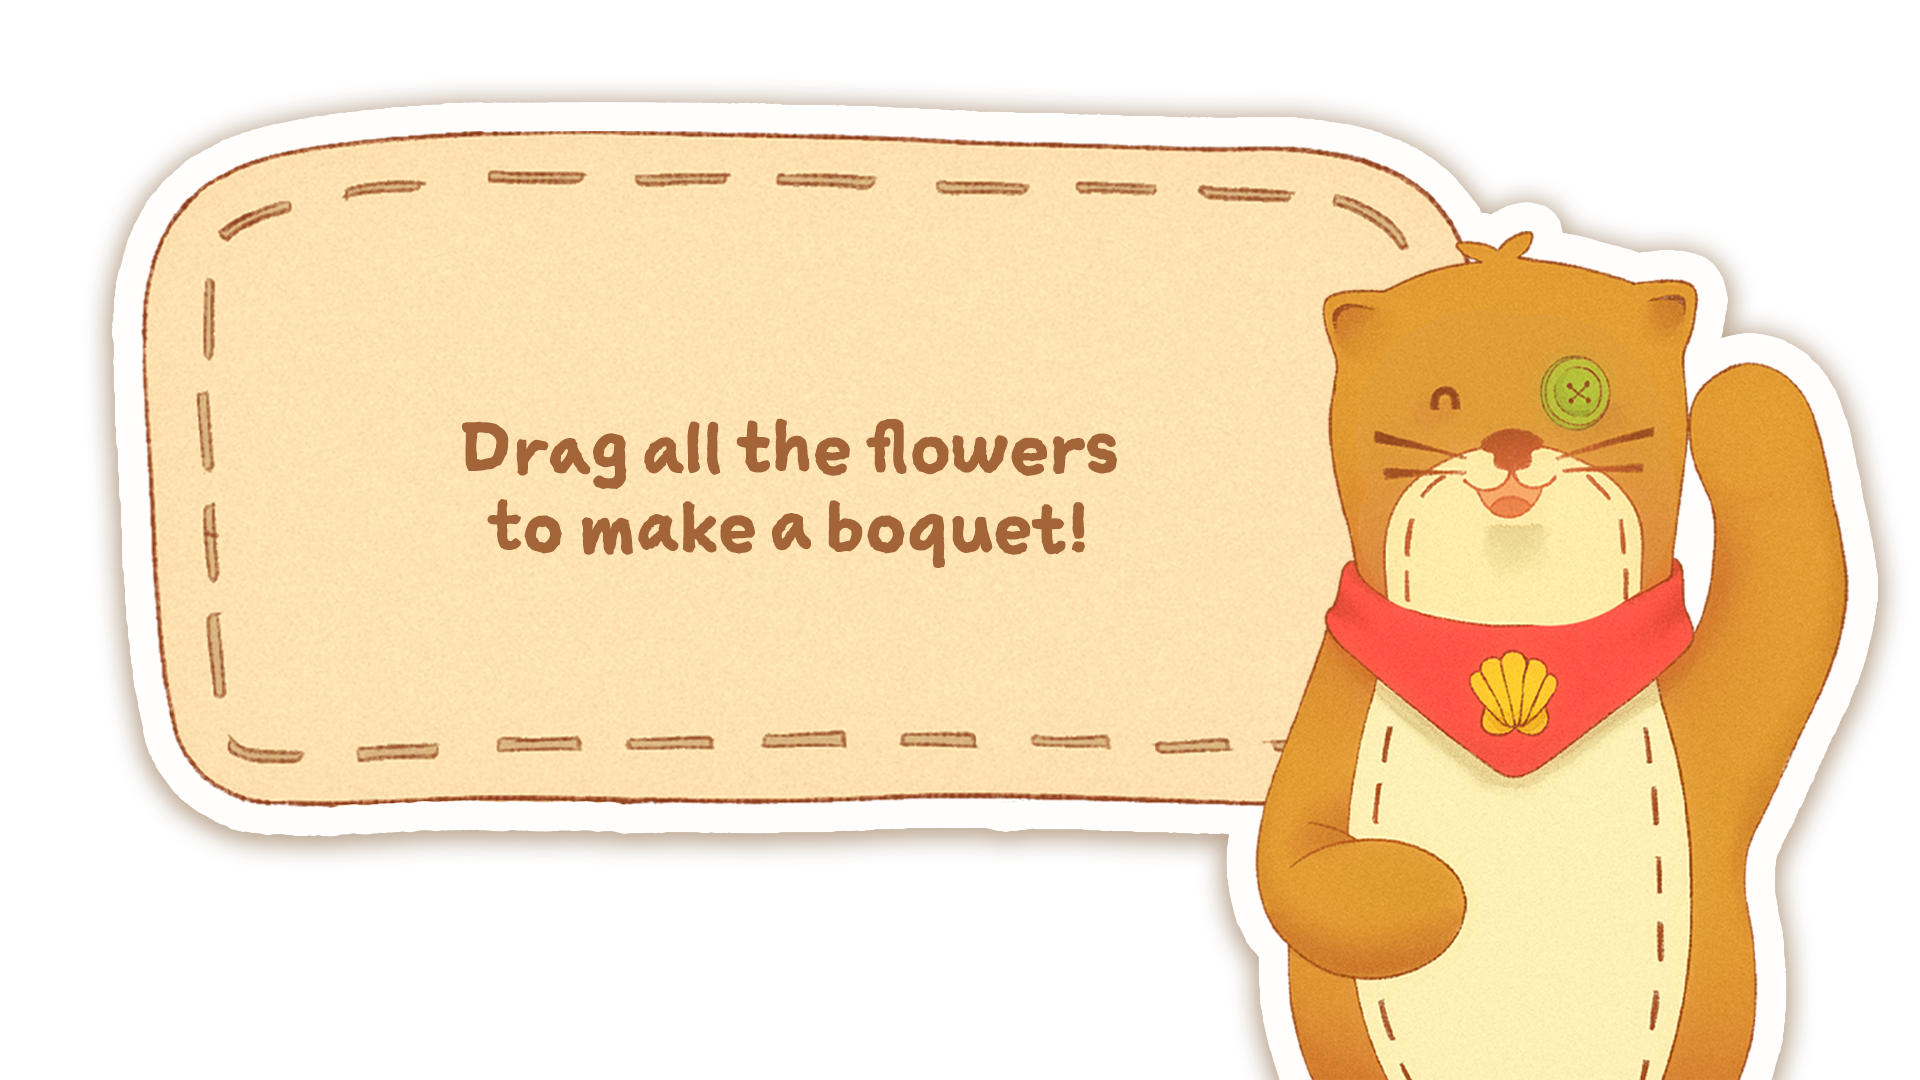
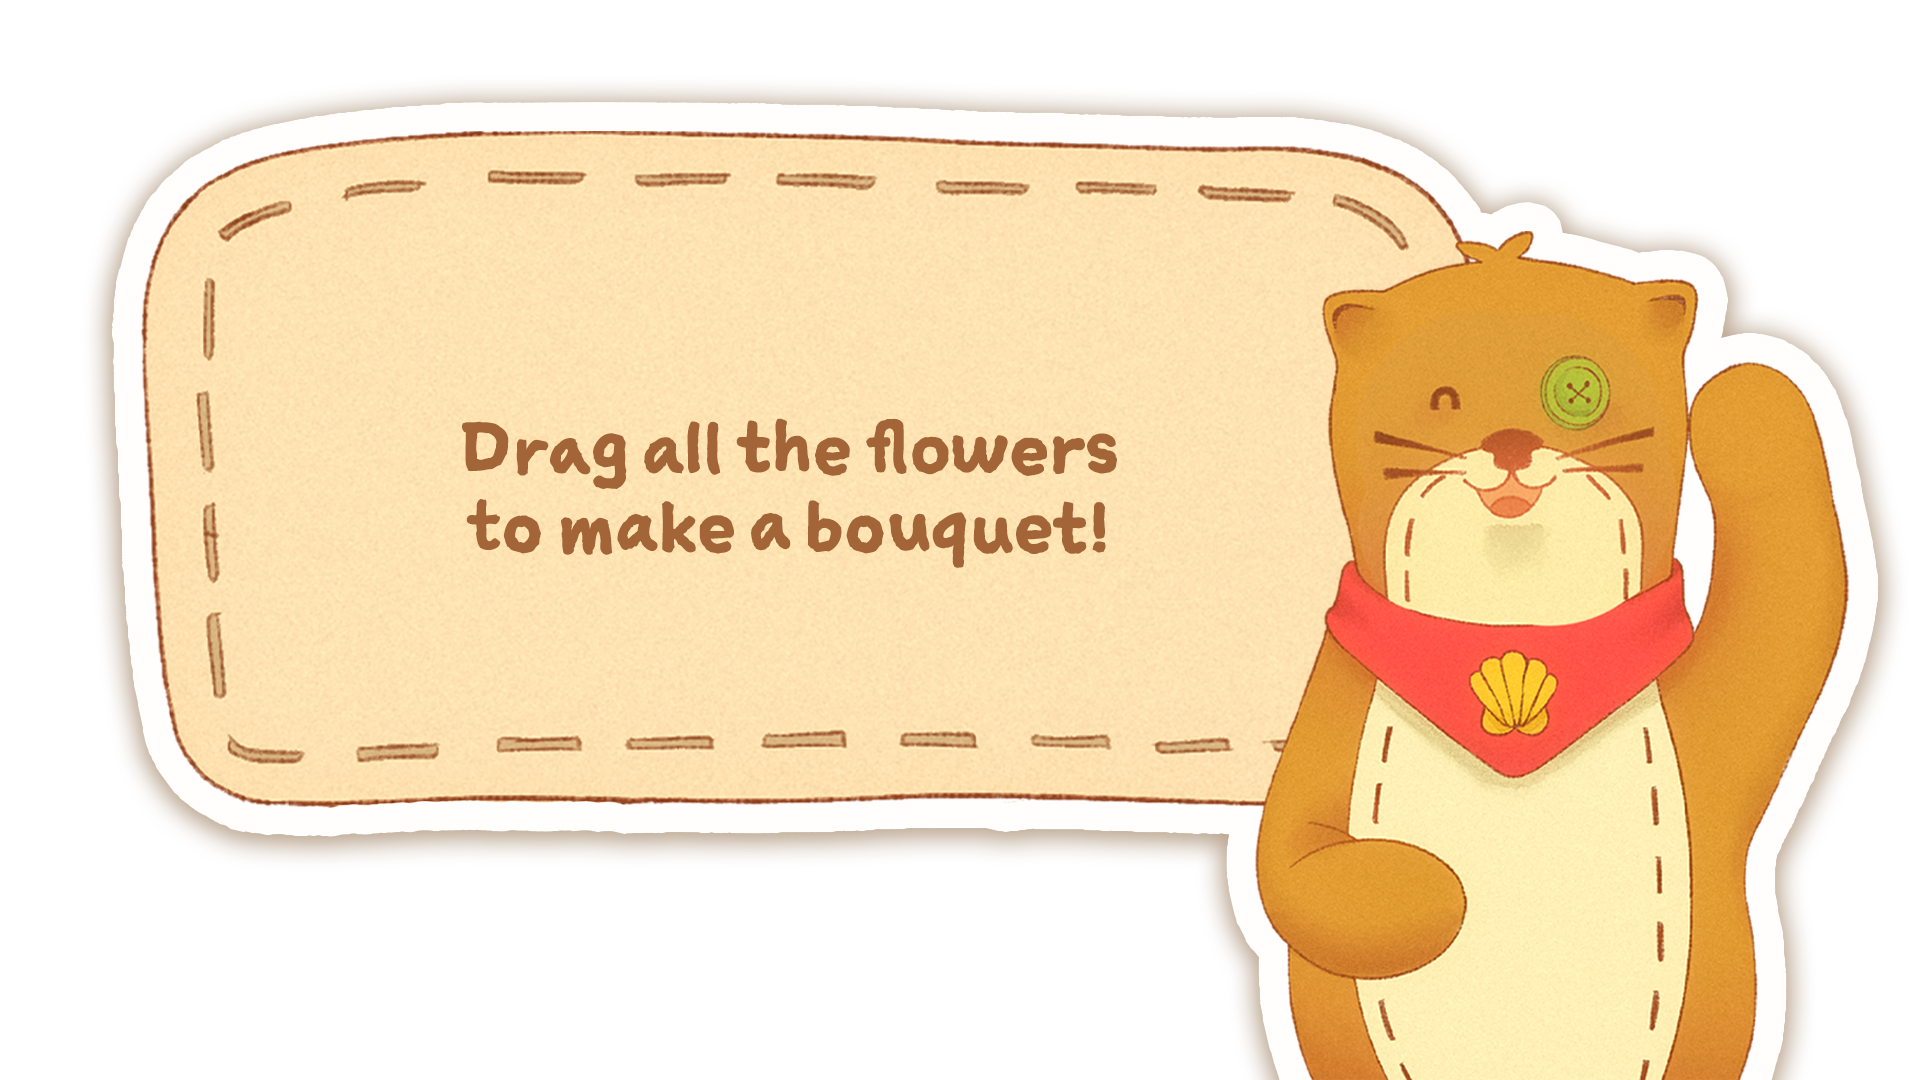
revisions 1.0

Changed region(s): [[0.25, 0.4583, 0.5938, 0.5194]]

diff --git a/src/components/FLOWER/3J/Page_3J.tsx b/src/components/FLOWER/3J/Page_3J.tsx
@@ -5,7 +5,7 @@ const d_option_a_eng = 'assets/FLOWER/3J/d_option_a_eng.png'
 const d_option_b_eng = 'assets/FLOWER/3J/d_option_b_eng.png'
 const d_answer_a_eng = 'assets/FLOWER/3J/d_answer_a_eng.png'
 const d_answer_b_eng = 'assets/FLOWER/3J/d_answer_b_eng.png'
-const d2 = 'assets/FLOWER/3G/d2.png'
+const d2 = 'assets/TD/TD_3.png'
 
 // tagalog
 const d_option_a_tag = 'assets/FLOWER/3J/d_option_a_tag.png'
@@ -103,7 +103,7 @@ const Page_3J = React.forwardRef<
           className="absolute object-contain"
           style={{
             left: 180,
-            bottom: language === 'eng' ? 310 : 290,
+            bottom: language === 'eng' ? 350 : 330,
             width: '40%',
           }}
           src={language === 'eng' ? d_answer_a_eng : d_answer_a_tag}
@@ -114,7 +114,11 @@ const Page_3J = React.forwardRef<
       {selectedChoice === 'B' && (
         <img
           className="absolute object-contain"
-          style={{ left: 190, bottom: 270, width: '38%' }}
+          style={{
+            left: 190,
+            bottom: language === 'eng' ? 320 : 310,
+            width: '38%',
+          }}
           src={language === 'eng' ? d_answer_b_eng : d_answer_b_tag}
           alt="Answer B"
         />

diff --git a/src/components/Book.tsx b/src/components/Book.tsx
@@ -73,14 +73,14 @@ const audioMap: { [key: number]: { loop: string[]; once: string[] } } = {
       'audio/SFX/classroom_ambiance.mp3', // classroom ambience
       'audio/MUSIC/beginning.mp3', // music bed
     ], // Keep ambience
-    once: ['audio/SFX/dream_transition.mp3'], // Dream transition
+    once: [], // Dream transition
   },
   3: {
     loop: [
       'audio/SFX/outdoor_ambiance.wav', // outdoor ambience
       'audio/MUSIC/beginning.mp3', // music bed
     ], // Outside ambience
-    once: [],
+    once: ['audio/SFX/dream_transition.mp3'],
   },
   4: {
     loop: [

diff --git a/src/components/CLOUD/5J/Page_5J.tsx b/src/components/CLOUD/5J/Page_5J.tsx
@@ -20,9 +20,9 @@ const d_answer_b2_tag = 'assets/CLOUD/5J/d_answer_b2_tag.png'
 import { useLanguage } from '@/hooks/LanguageContext'
 
 const dialogueAudio = [
-  'audio/DIALOGUES/FISHER/FISHER 1.mp3',
-  'audio/DIALOGUES/FISHER/FISHER 2.mp3',
-  'audio/DIALOGUES/FISHER/FISHER 3.mp3',
+  'audio/DIALOGUES/PILOT/PILOT 1.mp3',
+  'audio/DIALOGUES/PILOT/PILOT 2.mp3',
+  'audio/DIALOGUES/PILOT/PILOT 3.mp3',
 ]
 
 const Page_5J = React.forwardRef<

diff --git a/src/hooks/LanguageContext.tsx b/src/hooks/LanguageContext.tsx
@@ -16,7 +16,7 @@ const LanguageContext = createContext<LanguageContextProps | undefined>(
 export const LanguageProvider: React.FC<{ children: React.ReactNode }> = ({
   children,
 }) => {
-  const [language, setLanguage] = useState<Language>('eng') // Default is English
+  const [language, setLanguage] = useState<Language>('tag') // Default is English
 
   return (
     <LanguageContext.Provider value={{ language, setLanguage }}>

diff --git a/src/components/CLOUD/5P/Page_5P.tsx b/src/components/CLOUD/5P/Page_5P.tsx
@@ -156,8 +156,8 @@ const Page_5P = React.forwardRef<HTMLDivElement, { onFlipNext: () => void }>(
           <img
             className="z-[1] absolute object-contain p-8"
             style={{
-              top: 36,
-              right: 60,
+              bottom: 280,
+              left: 20,
               width: '30%',
             }}
             src={language === 'eng' ? Page_5P_eng : Page_5P_tag}

diff --git a/src/components/FLOWER/3G/Page_3G.tsx b/src/components/FLOWER/3G/Page_3G.tsx
@@ -19,7 +19,7 @@ import { useLanguage } from '@/hooks/LanguageContext'
 // Dialogue Audio
 const dialogueAudio: { [key: string]: string } = {
   d1: 'audio/DIALOGUES/FLORIST/FLORIST 1.mp3',
-  d2: 'audio/DIALOGUES/FLORIST/FLORIST 2.mp3',
+  d2: 'audio/DIALOGUES/MUNI.mp3',
   d3: 'audio/DIALOGUES/FLORIST/FLORIST 3.mp3',
 }
 

diff --git a/src/components/FISH/4H/Page_4H.tsx b/src/components/FISH/4H/Page_4H.tsx
@@ -18,7 +18,7 @@ import { useLanguage } from '@/hooks/LanguageContext'
 // Dialogue Audio
 const dialogueAudio: { [key: string]: string } = {
   d1: 'audio/DIALOGUES/FISHER/FISHER 1.mp3',
-  d2: 'audio/DIALOGUES/FISHER/FISHER 2.mp3',
+  d2: 'audio/DIALOGUES/MUNI.mp3',
   d3: 'audio/DIALOGUES/FISHER/FISHER 3.mp3',
 }
 
